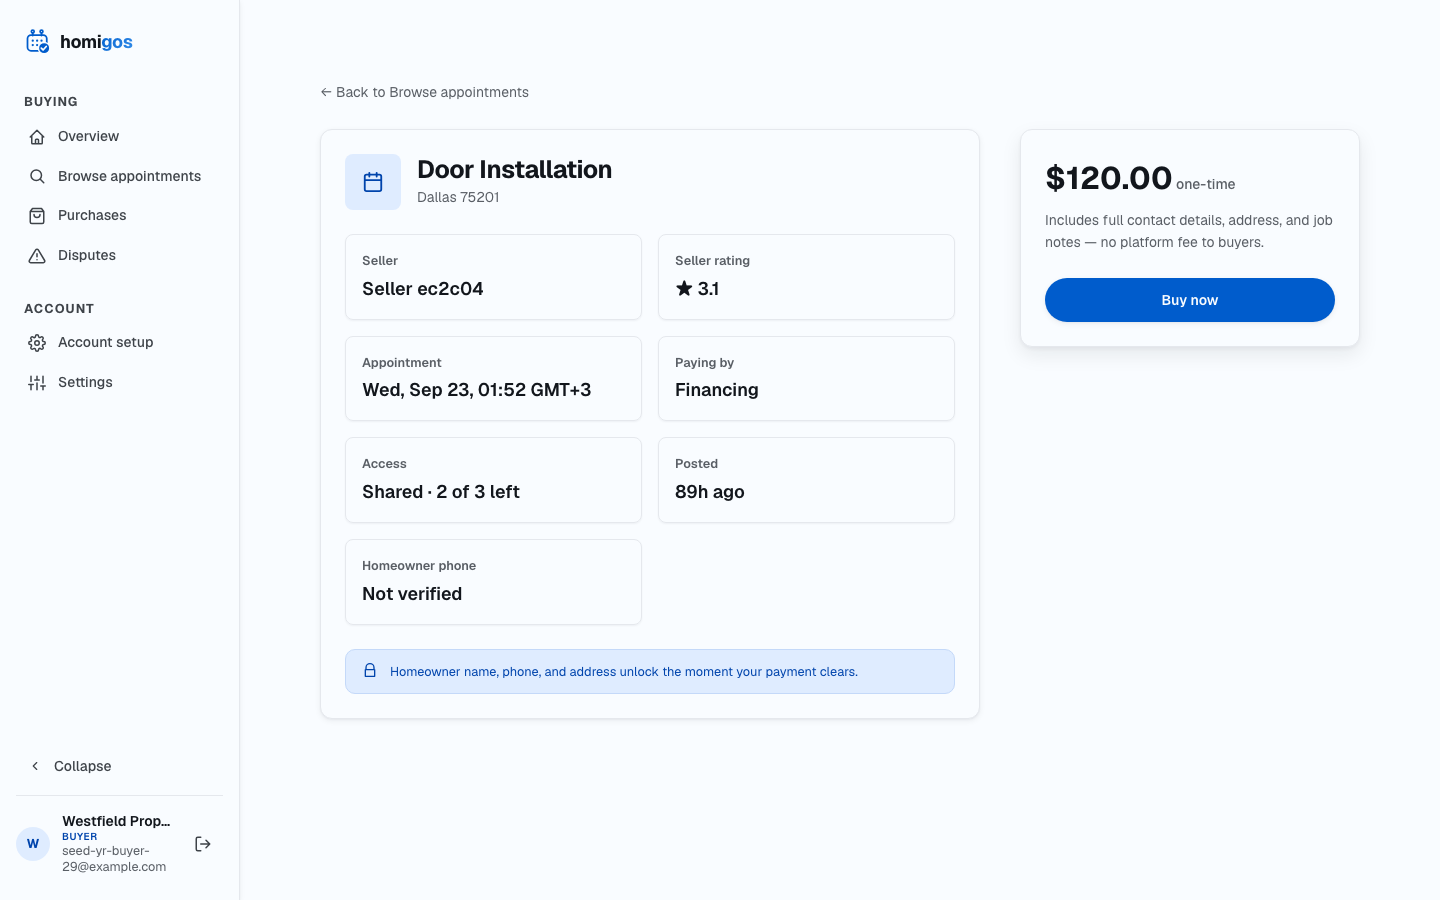
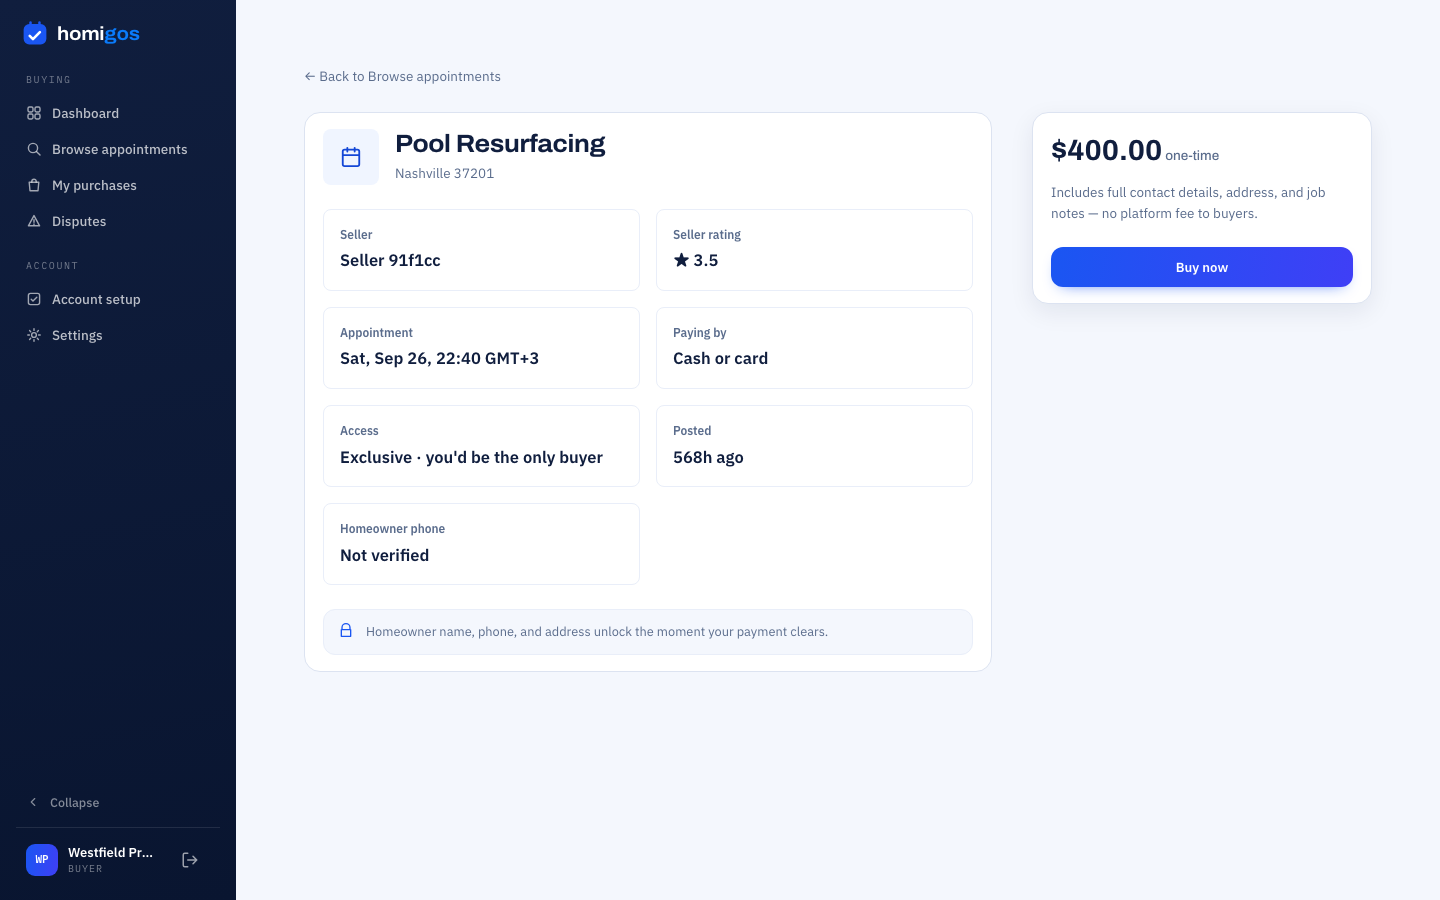
Recapture screen walkthrough with the 20.08 design system

diff --git a/e2e-flow/index.html b/e2e-flow/index.html
@@ -112,9 +112,22 @@
     <div class="eyebrow">End-to-end flow — real screens</div>
     <h1>Every role's flow, captured live</h1>
     <p class="lede">
-      Not mockups: every frame below is a screenshot of the current build, using the live
-      homigos.com data (a year of seeded activity). Click any screen to open it full size.
-      Recaptured 24 September 2026, after the audit fixes shipped.
+      Not mockups: every frame below is a screenshot of the current build running on a year of
+      seeded activity. Click any screen to open it full size. Recaptured 27 September 2026 after
+      the design-system refresh.
+    </p>
+    <p class="lede">
+      Update 27 September 2026 — new look: every screen now follows the approved 20 August design
+      mocks: navy sidebar, Archivo headings, IBM Plex text and figures, the blue gradient actions,
+      and the rebuilt landing page. Sign-up now runs in the approved step order (company →
+      verification → criteria, then the optional steps), and Earnings and Disputes are single pages
+      instead of tabs.
+    </p>
+    <p class="lede">
+      Also on 27 September: files uploaded through these screens (seller
+      documents, call recordings, job photos, dispute evidence) now go to encrypted cloud storage,
+      the platform is backed up daily, and every update is health-checked with automatic rollback.
+      See the <a href="../progress-report/#delivered">progress report</a> for details.
     </p>
     <div class="role-nav">
       <a href="#public">Public site →</a>
@@ -137,7 +150,7 @@
           <div class="frame-caption">
             <div class="step-label">Step 1 · /</div>
             <div class="step-title">Landing page</div>
-            <div class="step-desc">How buying and selling works, with live appointments from the marketplace.</div>
+            <div class="step-desc">Blue hero, a live board of real appointments with working category and location filters, and how it works.</div>
           </div>
         </div>
       </div>
@@ -150,6 +163,30 @@
             <div class="step-label">Step 2 · /marketplace</div>
             <div class="step-title">Marketplace preview</div>
             <div class="step-desc">Six real listings with date and time. Homeowner details stay hidden until purchase.</div>
+          </div>
+        </div>
+      </div>
+      <div class="connector">→</div>
+      <div class="frame-wrap">
+        <div class="frame">
+          <div class="browser-bar"><span class="dot"></span><span class="dot"></span><span class="dot"></span></div>
+          <a class="shot-link" href="screenshots/public-03-enroll-buyer.png" target="_blank"><img src="screenshots/public-03-enroll-buyer.png" alt="Buyer sign-up"></a>
+          <div class="frame-caption">
+            <div class="step-label">Step 3 · /enroll/buyer</div>
+            <div class="step-title">Buyer sign-up</div>
+            <div class="step-desc">Three required steps — company, verification, buying criteria — then licensing and billing whenever the buyer is ready.</div>
+          </div>
+        </div>
+      </div>
+      <div class="connector">→</div>
+      <div class="frame-wrap">
+        <div class="frame">
+          <div class="browser-bar"><span class="dot"></span><span class="dot"></span><span class="dot"></span></div>
+          <a class="shot-link" href="screenshots/public-04-enroll-seller.png" target="_blank"><img src="screenshots/public-04-enroll-seller.png" alt="Seller sign-up"></a>
+          <div class="frame-caption">
+            <div class="step-label">Step 4 · /enroll/seller</div>
+            <div class="step-title">Seller sign-up</div>
+            <div class="step-desc">Four required steps ending in the signed Seller Agreement; payout details can wait until the first payout.</div>
           </div>
         </div>
       </div>
@@ -169,7 +206,7 @@
           <div class="frame-caption">
             <div class="step-label">Step 1 · /login</div>
             <div class="step-title">Sign in</div>
-            <div class="step-desc">One login for buyers and sellers — real form, real session.</div>
+            <div class="step-desc">One login for buyers and sellers: show-password toggle, keep-me-signed-in, forgot password.</div>
           </div>
         </div>
       </div>
@@ -245,11 +282,11 @@
       <div class="frame-wrap">
         <div class="frame">
           <div class="browser-bar"><span class="dot"></span><span class="dot"></span><span class="dot"></span></div>
-          <a class="shot-link" href="screenshots/seller-01-overview.png" target="_blank"><img src="screenshots/seller-01-overview.png" alt="Seller overview dashboard"></a>
+          <a class="shot-link" href="screenshots/seller-01-overview.png" target="_blank"><img src="screenshots/seller-01-overview.png" alt="Seller dashboard"></a>
           <div class="frame-caption">
             <div class="step-label">Step 1 · /dashboard/seller · 30 days</div>
-            <div class="step-title">Overview</div>
-            <div class="step-desc">Listings, sales and money calculated on the server. Money comes from the payment ledger, after the platform fee and refunds.</div>
+            <div class="step-title">Dashboard</div>
+            <div class="step-desc">Listed, sold, won and disputed with change vs the prior period, money from the payment ledger, chart, funnel and job-type table.</div>
           </div>
         </div>
       </div>
@@ -257,11 +294,11 @@
       <div class="frame-wrap">
         <div class="frame">
           <div class="browser-bar"><span class="dot"></span><span class="dot"></span><span class="dot"></span></div>
-          <a class="shot-link" href="screenshots/seller-02-appointments.png" target="_blank"><img src="screenshots/seller-02-appointments.png" alt="Seller appointments, Unsold tab"></a>
+          <a class="shot-link" href="screenshots/seller-02-appointments.png" target="_blank"><img src="screenshots/seller-02-appointments.png" alt="Seller appointments"></a>
           <div class="frame-caption">
             <div class="step-label">Step 2 · /dashboard/seller/appointments</div>
-            <div class="step-title">Appointments</div>
-            <div class="step-desc">Every listing by status: drafts, available, pending, sold, disputed and expired.</div>
+            <div class="step-title">My appointments</div>
+            <div class="step-desc">Every listing by status with its next action — Edit, Relist or Attach recording — right next to the status.</div>
           </div>
         </div>
       </div>
@@ -269,11 +306,11 @@
       <div class="frame-wrap">
         <div class="frame">
           <div class="browser-bar"><span class="dot"></span><span class="dot"></span><span class="dot"></span></div>
-          <a class="shot-link" href="screenshots/seller-03-earnings-balance.png" target="_blank"><img src="screenshots/seller-03-earnings-balance.png" alt="Seller earnings, Balance tab"></a>
+          <a class="shot-link" href="screenshots/seller-03-earnings.png" target="_blank"><img src="screenshots/seller-03-earnings.png" alt="Seller earnings"></a>
           <div class="frame-caption">
-            <div class="step-label">Step 3 · /dashboard/seller/earnings · Balance</div>
-            <div class="step-title">Earnings — Balance</div>
-            <div class="step-desc">Always-current payout position: pending, available, withdrawn, refunded.</div>
+            <div class="step-label">Step 3 · /dashboard/seller/earnings · All time</div>
+            <div class="step-title">Earnings</div>
+            <div class="step-desc">Balance strip, period metrics, earnings chart, release schedule and the full ledger on one page.</div>
           </div>
         </div>
       </div>
@@ -281,11 +318,11 @@
       <div class="frame-wrap">
         <div class="frame">
           <div class="browser-bar"><span class="dot"></span><span class="dot"></span><span class="dot"></span></div>
-          <a class="shot-link" href="screenshots/seller-04-earnings-performance.png" target="_blank"><img src="screenshots/seller-04-earnings-performance.png" alt="Seller earnings, Performance tab"></a>
+          <a class="shot-link" href="screenshots/seller-04-disputes.png" target="_blank"><img src="screenshots/seller-04-disputes.png" alt="Seller disputes"></a>
           <div class="frame-caption">
-            <div class="step-label">Step 4 · /dashboard/seller/earnings · Performance</div>
-            <div class="step-title">Earnings — Performance</div>
-            <div class="step-desc">Weekly funded/pending/refunded breakdown across the whole year.</div>
+            <div class="step-label">Step 4 · /dashboard/seller/disputes · All time</div>
+            <div class="step-title">Disputes</div>
+            <div class="step-desc">Buyer rating, outcome breakdown, why buyers dispute, repeat filers and every case.</div>
           </div>
         </div>
       </div>
@@ -293,11 +330,11 @@
       <div class="frame-wrap">
         <div class="frame">
           <div class="browser-bar"><span class="dot"></span><span class="dot"></span><span class="dot"></span></div>
-          <a class="shot-link" href="screenshots/seller-05-disputes.png" target="_blank"><img src="screenshots/seller-05-disputes.png" alt="Seller disputes, Rating tab"></a>
+          <a class="shot-link" href="screenshots/seller-05-settings.png" target="_blank"><img src="screenshots/seller-05-settings.png" alt="Seller settings"></a>
           <div class="frame-caption">
-            <div class="step-label">Step 5 · /dashboard/seller/disputes · Rating</div>
-            <div class="step-title">Disputes — Rating</div>
-            <div class="step-desc">The average of buyers' star ratings, the same number buyers see on listings. Dispute record shown separately.</div>
+            <div class="step-label">Step 5 · /dashboard/seller/settings</div>
+            <div class="step-title">Settings</div>
+            <div class="step-desc">Company, compliance, selling criteria, listing defaults, notifications, payouts, team and security.</div>
           </div>
         </div>
       </div>
@@ -362,8 +399,9 @@
 
   <footer>
     Captured with seeded demo accounts (one buyer, one seller, one admin). Demo sign-in details
-    are shared separately on request rather than printed here. Regenerate with the capture script
-    any time the UI changes. Nothing here is hand-mocked.
+    are shared separately on request rather than printed here. Regenerate with
+    <span class="mono">codebase/frontend/scripts/capture-e2e-flow.mjs</span> any time the UI
+    changes. Nothing here is hand-mocked.
   </footer>
 
 </div>
